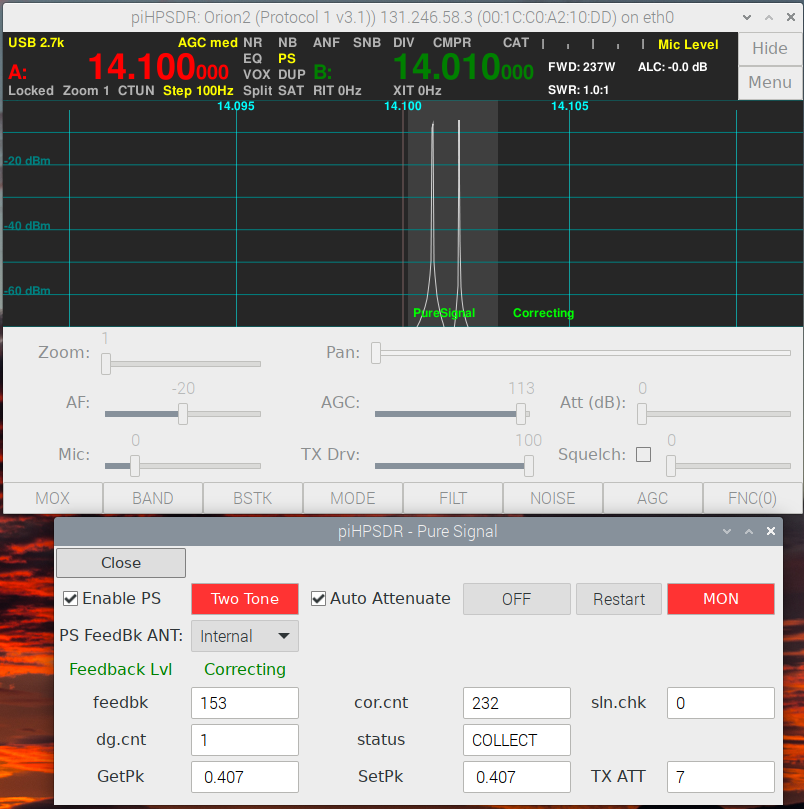
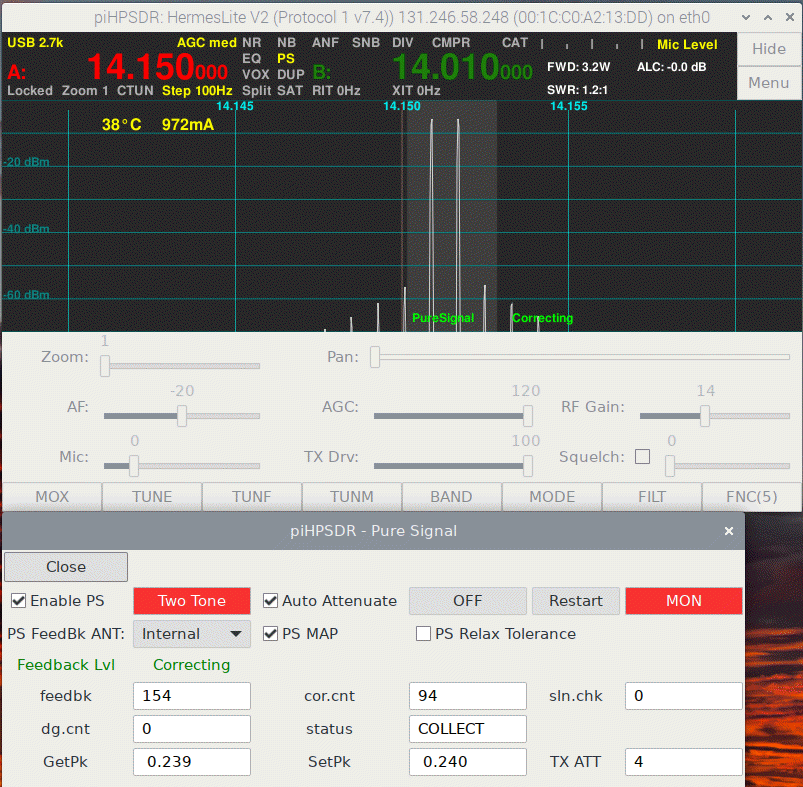
Manual: updated the PURESIGNAL chapter.

Changed region(s): [[0.0, 0.0, 1.0, 1.0], [0.4047, 0.4879, 0.4359, 0.5184], [0.0, 0.4879, 0.0311, 0.5184]]

diff --git a/release/LatexManual/piHPSDR-Manual.tex b/release/LatexManual/piHPSDR-Manual.tex
@@ -2318,6 +2318,17 @@ PS feedback signal. It can be \rett{Internal} which means internal feedback
 TX/RX relay), or it can be \rett{Ext1} or \rett{ByPass} which refers to the
 auxiliary antenna jacks.
 
+\rett{PS MAP} This box controls the PURESIGNAL ,,Map mode'' and is normally checked. 
+According to the WDSP manual, changing the Map mode allows easier calibration in
+situations where a very poor PA is driven into heavy gain compression. This box has
+no effect if there is no compression.
+
+\rett{PS Relax Tolerance} This box is normally unchecked which means that the default
+value 0.8 is used for the PURESIGNAL calibration tolerance. If checked, this tolerance
+is reduced to 0.4. According to the WDSP manual, relaxing the tolerance my be helpful
+for PAs with a very poor load regulation in the power supply such that there are
+severe and slow memory effects.
+ 
 \begin{figure}[ht]
 \center
 \includegraphics[width=12cm]{PSnomon.png}
@@ -2353,7 +2364,12 @@ If not, the RF input attenuators are set to maximum attenution while transmittin
 PA is enabled.
 
 \rett{SetPk} This field shows the currently assumed value of the peak value of the TX DAC
-feedback signal. piHPSDR chooses is automatically. It should match the value reported
+feedback signal. piHPSDR chooses is automatically, depending on the radio hardware.
+The standard value for P1 and P2 radios are 0.407 and 0.290. Notable exceptions are
+the HermesLite-II running P1 (SetPK=0.240) and the Anan-G2 running P2 (SetPK=0.612).
+The SetPK value is determined by the FPGA firmware of the radio can can experimentally
+be determined by comparing the outgoing TX and the incoming TX feedback signal.
+ It should match the value reported
 by the calibration algorithm in the GetPk field. The  value
 chosen by piHPSDR can be incorrect if you use a highly experimental firmware on your
 HPSDR board with modified TX DAC filters, but this should normally not happen.
@@ -2365,27 +2381,32 @@ HPSDR board with modified TX DAC filters, but this should normally not happen.
 \label{fig:PSoff}
 \end{figure}
 
-To demonstrate what happens, I show an example. Checking both \rett{Enable PS} and
+To demonstrate what happens, I show an example performed with a HermesLite-II
+radio running P1. Checking both \rett{Enable PS} and
 \rett{Auto Attenuation}, and hitting the \rett{Two Tone} button, it needs only few
 seconds to stabilize and then Fig. \ref{fig:PSnomon} results, where the TX
 spectrum scope and the PS menu window have been arranged such that they do
 not cover each other. Although both the PS menu and the spectrum scope state
 that PS is working and correcting, the signal does not look good: a two-tone
-signal should only have two peaks! The reason is, that the TX spectrum scope
+signal should only have two peaks, but here one sees the two main peaks at $-6$ dBm
+and two IM3 satellites at about $-42$ dBm.
+The reason is, that the TX spectrum scope
 normally shows the signal that is sent to the PA, so we see a distorted signal.
 However this distortion is magically exactly such that the PA makes a nice signal
-out of this (\textit{adaptive predistortion}) . If one wants to see what the antenna
+out of this (\textit{adaptive predistortion}). If one wants to see what the antenna
  is actually transmitting, one must
 push the \rett{MON} button such that it is highlighted. 
 This is shown in Fig. \ref{fig:PSmon}, where one sees the
 feedback signal, that is, what the PA sends to the antenna.
-This is a rather clean two-tone signal (no satellites can be seen,
-the IM3 value is better than 50 dBc). To demonstrate how effective the PS algorithm is,
+This is a much cleaner two-tone signal (the first satellites are at $-56$ dBm,
+the IM3 value is about $-50$ dBc). To demonstrate how effective the PS algorithm is,
 I have pushed the \rett{OFF} button which stops the PureSignal calibration, the result
 is shown in Fig. \ref{fig:PSoff}. After hitting that button, IM3 satellites immediately
-grow out of the dust and rise to
-about 30 dBc, which reflects the non-linearity of the PA. Note that this is quite a typical
-values. Unless you have a class-A amplifier, your PA probably won't be much better.
+grow and rise to about $-40$ dbM (which means IM3
+about $-34$ dBc), which is s reflects the intrinsic
+non-linearity of the PA.
+ Note that this is a very good value,
+unless you have a class-A amplifier, your PA probably won't be much better.
 This shows that adaptive predistortion is a mechanism that allows you to produce a clean
 signal with a quality that would be impossible (or \textit{very} difficult) to achieve
 with traditional hardware.
@@ -3592,32 +3613,8 @@ produces zero-amplitude audio output.}
 \action{NumPad 0}{0}{B}{Used for direct frequency entry. This is the same as hitting the corresponding
 button ,,0'' in the \texttt{VFO} (VFO) menu.}
 
-\action{NumPad 1}{1}{B}{Used for direct frequency entry. This is the same as hitting the corresponding
-button ,,1'' in the \texttt{VFO} menu.}
-
-\action{NumPad 2}{2}{B}{Used for direct frequency entry. This is the same as hitting the corresponding
-button ,,2'' in the \texttt{VFO} menu.}
-
-\action{NumPad 3}{3}{B}{Used for direct frequency entry. This is the same as hitting the corresponding
-button ,,3'' in the \texttt{VFO} menu.}
-
-\action{NumPad 4}{4}{B}{Used for direct frequency entry. This is the same as hitting the corresponding
-button ,,4'' in the \texttt{VFO} menu.}
-
-\action{NumPad 5}{5}{B}{Used for direct frequency entry. This is the same as hitting the corresponding
-button ,,5'' in the \texttt{VFO} menu.}
-
-\action{NumPad 6}{6}{B}{Used for direct frequency entry. This is the same as hitting the corresponding
-button ,,6'' in the \texttt{VFO} menu.}
-
-\action{NumPad 7}{7}{B}{Used for direct frequency entry. This is the same as hitting the corresponding
-button ,,7'' in the \texttt{VFO} menu.}
-
-\action{NumPad 8}{8}{B}{(Used for direct frequency entry. This is the same as hitting the corresponding
-button ,,8'' in the \texttt{VFO}  menu.}
-
-\action{NumPad 9}{9}{B}{Used for direct frequency entry. This is the same as hitting the corresponding
-button ,,9'' in the \texttt{VFO}  menu.}
+\action{NumPad 1$\ldots$NumPad 9}{1$\ldots$9}{B}{The same as \bltt{NumPad 0}, except that digits
+(button)  ,,1'' through ,,9'' are referred to.}
 
 \action{NumPad BS}{BS}{B}{Used for direct frequency entry (BS = backstep). This is the same as hitting the
 corresponding button  in the \texttt{VFO} menu. It cancels the last-entered digit.}
@@ -3683,13 +3680,8 @@ the press and release events are significant.}
 
 \action{Rcl 0}{RCL0}{B}{Recall (restore) data from the memory slot 0 (see the \bltt{Memory} menu, Chapter \ref{sec:memmenu}).}
 
-\action{Rcl 1}{RCL1}{B}{Recall (restore) data from the memory slot 1 (see the \bltt{Memory} menu, Chapter \ref{sec:memmenu}).}
-
-\action{Rcl 2}{RCL2}{B}{Recall (restore) data from the memory slot 2 (see the \bltt{Memory} menu, Chapter \ref{sec:memmenu}).}
-
-\action{Rcl 3}{RCL3}{B}{Recall (restore) data from the memory slot 3 (see the \bltt{Memory} menu, Chapter \ref{sec:memmenu}).}
-
-\action{Rcl 4}{RCL4}{B}{Recall (restore) data from the memory slot 4 (see the \bltt{Memory} menu, Chapter \ref{sec:memmenu}).}
+\action{Rcl 1$\ldots$Rcl 9}{RCL1$\ldots$RCL9}{B}{The same as \bltt{Rcl 0}, except that memory slots 1 through 9
+are referred to.}
 
 \action{RF Gain}{RFGAIN}{PE}{Set the gain of the RF front end of the active receiver. Only effective for
 radios that have such a
